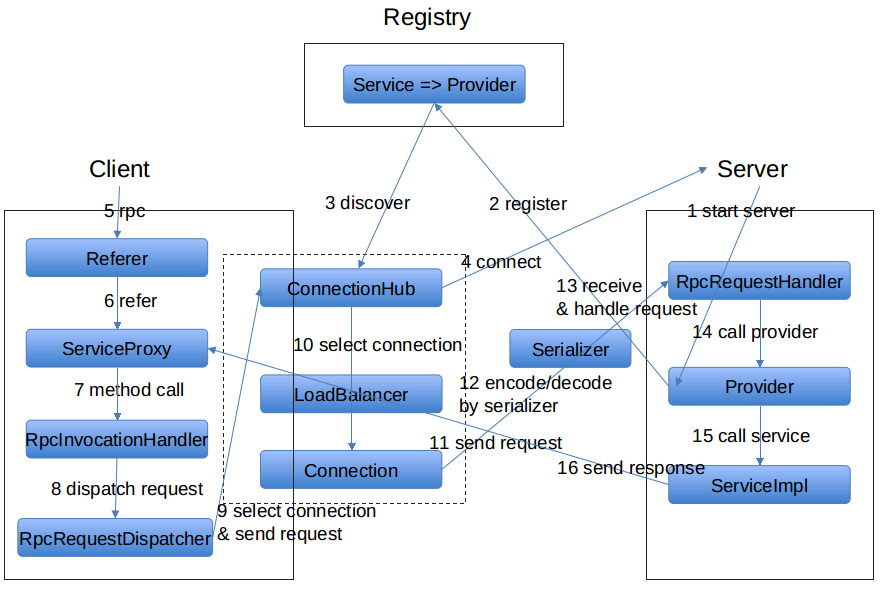
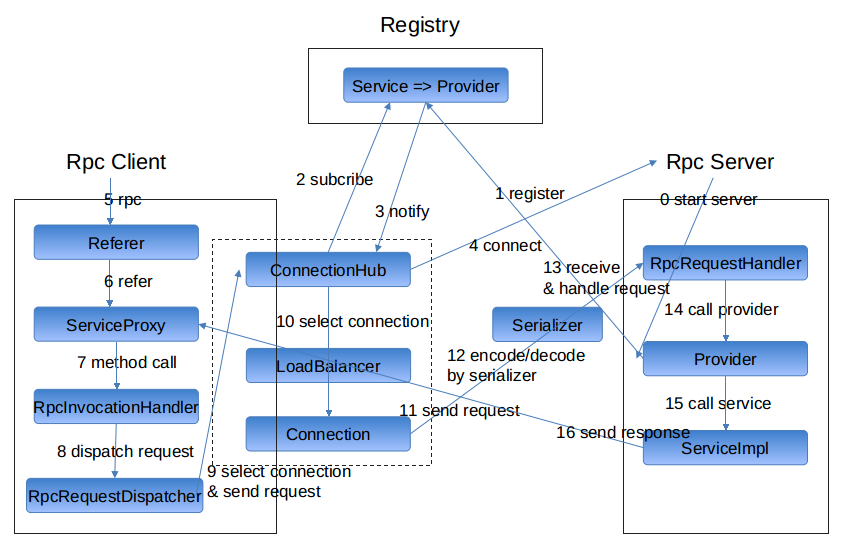
完善rpc/tracer文档

diff --git a/doc/rpc/architecture.md b/doc/rpc/architecture.md
@@ -1,28 +1,44 @@
+# 名词解释
+
+1. Server, Provider节点, 容纳多个Provider
+2. Client, 与Server相对, Referer通过Client来请求Server
+
 # 架构
-![rpc-flow](img/rpc-flow.png)
 
 ## 3模块
-1. `jksoa-rpc-registry` 注册中心
-2. `jksoa-rpc-server` 服务端: `Provider`所在的节点, 管理`Provider`, 处理client的请求, 调用对应的`Provider`来处理请求
+1. `jksoa-rpc-registry` 注册中心, 包括注册服务、订阅服务、服务变更通知、服务心跳发送等功能；Server端会在系统初始化时通过register模块注册服务，Client端在系统初始化时会通过register模块订阅到具体提供服务的Server列表，当Server 列表发生变更时也由register模块通知Client。
+2. `jksoa-rpc-server` 服务端: 服务提供者的节点, 即`Provider`所在的节点, 管理`Provider`, 处理client的请求, 调用对应的`Provider`来处理请求
 3. `jksoa-rpc-client` 客户端: 管理`Referer`, 管理与server的连接, 向server发送请求
-4. 依赖关系: 下面依赖上面
+
+![module](img/module.png)
+
+## 模块依赖关系
+下面依赖上面
 ```
 jksoa-rpc-registry
     jksoa-rpc-client
         jksoa-rpc-server
 ```
 
+# 组件
+
+![rpc-flow](img/rpc-flow.png)
+
+## registry组件
+存储服务注册信息, 就是有哪些服务, 服务有哪些提供者节点
+服务提供者将服务信息（包含协议、ip、端口等信息）注册到注册中心，服务引用方通过注册中心发现服务。当服务发生变更，注册中心负责通知各个引用者。
+
 ## server端组件
 1. `RpcRequestHandler` 请求处理器
-2. `Provider` 暴露服务的服务提供者
-3. `ServiceImpl` 服务实现
+2. `Provider` 暴露服务的服务提供者, 将服务注册到注册中心, 调用的是服务实现.
+3. `ServiceImpl` 服务实现, 要被`Provider`调用. 由于被`Provider`注册到注册中心, 因此可被调用方调用.
 
 ## client端组件
-1. `Referer` 调用远程服务的服务引用者
+1. `Referer` 调用远程服务的服务引用者, 即服务调用者, 调用的是服务代理
 2. `ServiceProxy` 服务代理, 简化调用, 调本地服务一样调远程服务, 使用`RpcInvocationHandler`来实现
 3. `RpcInvocationHandler` 将方法调用封装为请求, 并通过 `RpcRequestDispatcher` 来分发请求
 4. `RpcRequestDispatcher` 分发请求
-5. `ConnectionHub` 连接集中器, 用于管理与server的连接
+5. `ConnectionHub` 连接集中器, 通过订阅注册中心来发现服务, 同时用于管理单个服务的一组server的连接, 发送请求时会根据不同的负载均衡策略选择一个可用的Server发送。
 6. `LoadBalancer` 均衡负载器, 用于均衡发送请求给某服务的多个server(即服务提供者节点)
 7. `Connection` 单个连接, 用于发送请求
 

diff --git a/doc/tracer/architecture.md b/doc/tracer/architecture.md
@@ -1,0 +1,72 @@
+# 跟踪模型
+
+## 跟踪组件
+一次典型的分布式调用过程，如下图所示:
+
+![trace-component](img/trace-component.jpg)
+
+跟踪模型有以下组件：
+1. Trace
+一次完整的分布式调用跟踪链路。
+
+2. Span
+追踪服务调基本结构，表示跨服务的一次调用；多span形成树形结构，组合成一次Trace追踪记录。
+
+3. Annotation
+在span中的标注点，记录整个span时间段内发生的事件。
+
+而Annotation类型有:
+> - `Cs` CLIENT_SEND，客户端发起请求
+> - `Cr` CLIENT_RECIEVE，客户端收到响应
+> - `Sr` SERVER_RECIEVE，服务端收到请求
+> - `Ss` SERVER_SEND，服务端发送结果
+> - `Ex` Exception 记录异常事件
+
+4. Client && Server
+
+## 跟踪流程
+![trace-flow](img/trace-flow.png)
+
+# 架构
+
+## 模块
+![module](img/module.png)
+
+1. `jksoa-tracer-common` 公共代码, 如跟踪模型的定义
+
+2. `jksoa-tracer-agent` 跟踪代理人, 负责采集调用数据
+
+2.1 基于rpc: 
+构建于jksoa-rpc之上，支持应用的透明接入。
+
+2.2 拦截器实现: 
+对rpc client/rpc server/http server等3端, 使用拦截器来埋点跟踪.
+
+2.3 采集处理: 
+与CAT/hydra类似。支持自适应采样，规则简单，对于每秒钟的请求次数进行统计，如果超过100，就按照10%的比率进行采样。
+
+2.4 上传处理:
+rcp调用`ICollectorService`远程服务，批量异步上传数据
+
+3. `jksoa-tracer-collector` 跟踪收集人, 负责收集agent上传过来来的调用数据, 并组成跟踪数据入库
+提供 `ICollectorService` rpc服务, 以供agent调用
+
+4. `jksoa-tracer-web` 用户交互界面, 读跟踪数据并显示报表. UI直接复用京东的Hydra框架
+
+## 接入方式
+
+1. 透明接入
+对rpc client/rpc server/http server等3端, 使用拦截器来埋点跟踪, 已做成插件.
+
+配置好插件即可实现透明接入，自动拦截跨服务的调用，进行数据采样。
+
+2. 注解
+对于其他分散的服务，或者业务逻辑中其他小粒度的埋点，如服务内部的方法调用、数据库操作、URL请求等，提供注解 `@TraceService` 的方式。
+
+
+## 数据存储模块
+- 目前支持存在mysql
+- 通过traceId可以直接将span数据关联起来
+- 通过traceId和spanId可以定位所有的Annotation数据
+
+

diff --git a/doc/rpc/registry/registry.md b/doc/rpc/registry/registry.md
@@ -1,11 +1,12 @@
 # 注册中心
 使用注册中心来实现服务注册 + 服务发现.
+服务提供者将服务信息（包含ip、端口、服务策略等信息）注册到注册中心，服务引用者通过注册中心发现服务。当服务发生变更，注册中心负责通知各个引用者。
 
 就2个功能:
 
 1. 服务注册, 是服务提供者在server启动时, 向注册中心注册其服务, 以供别人调用
 
-2. 服务发现, 是服务引用者通过向注册中心订阅服务信息, 来发现有哪些服务提供方, 以便后续调用该服务.
+2. 服务发现, 是服务引用者通过向注册中心订阅服务信息, 来发现有哪些服务提供者节点, 以便后续调用该服务.
 
 # 类族
 
@@ -27,7 +28,7 @@ IDiscovery -- 服务发现
 ## 注册服务信息
 Provider需要向注册中心注册其提供的服务信息, 服务信息包含: 
 1. 服务的接口名
-2. server信息: ip + 端口
+2. server信息: 协议 + ip + 端口
 3. 其他配置: 如权重
 
 ## 服务信息的存储

diff --git a/doc/tracer/getting_started.md b/doc/tracer/getting_started.md
@@ -17,7 +17,7 @@ jksoa 是一个分布式跟踪系统
 
 Trace系统需要能够透明的传递调用上下文，理解系统行为，理清后端调用关系，实现调用链跟踪，调用路径分析，帮助业务人员定位性能瓶颈，排查故障原因等；同时，需要对用户尽量透明，减少对业务代码的侵入性。
 
-设计思想源于Google的论文《Dapper, a Large-Scale Distributed Systems Tracing Infrastructure》。
+设计思想源于[Google Dapper论文](http://bigbully.github.io/Dapper-translation/)实现。。
 
 # 快速入门
 
@@ -50,4 +50,16 @@ httpServerPlugins:
 
 ## collector端
 
-负责提供 ICollectorService 服务, 以供agent调用
+需要启动rpc server, 提供 `ICollectorService` rpc服务, 以供agent调用
+
+## web端
+
+在`jksoa-tracer-web`模块上启动http server, 以显示跟踪相关报表. UI直接复用京东的Hydra框架
+
+1. 查询跟踪页面
+
+![query](img/query.png)
+
+2. 跟踪详情页面
+
+![result](img/result.png)

diff --git a/doc/rpc/client/failover.md b/doc/rpc/client/failover.md
@@ -41,7 +41,20 @@ try {
 }
 ```
 
-2. 正确的写法: 利用 `trySupplierFuture(action)` 将发送请求操作转为 `CompletableFuture` 对象, 利用 `CompletableFuture.whenComplete()` 来做失败回调处理.
+2. 错误的写法: `sendRequestAsync(req)` 可能会抛异常
+
+```
+异步发请求
+var respFuture: CompletableFuture<RpcResponse> = sendRequestAsync(req)
+
+respFuture.whenComplete{ r, ex ->
+    // 失败后, 重新异步发送请求
+    if(ex != null)
+        sendRequestAsync(req)
+}
+```
+
+3. 正确的写法: 利用 `trySupplierFuture(action)` 将发送请求操作转为 `CompletableFuture` 对象, 同时还会捕获异常, 最后利用 `CompletableFuture.whenComplete()` 来做失败回调处理.
 
 ```
 import net.jkcode.jkmvc.common.trySupplierFuture

diff --git a/doc/rpc/client/connnection_manage.md b/doc/rpc/client/connnection_manage.md
@@ -16,7 +16,7 @@
 
 我设计了`IConnectionHub`来集中管理连接.
 
-同时为了更容易的理解与维护, `IConnectionHub`只管理单个服务的连接, 也就是说一个服务类都对应唯一的`IConnectionHub`实例. 这样的话在查询某个服务的连接时, 只需要调用该服务对应`IConnectionHub`实例就行了.
+同时为了更容易的理解与维护, `IConnectionHub`只管理单个服务的一组server的连接, 也就是说一个服务类都对应唯一的`IConnectionHub`实例. 这样的话在查询某个服务的连接时, 只需要调用该服务对应`IConnectionHub`实例就行了.
 
 服务类可以指定`IConnectionHub`的实现类, 参考注解 `@RemoteService` 的属性 `val connectionHubClass: KClass<*>`
 

diff --git a/doc/rpc/rpc-flow.md b/doc/rpc/rpc-flow.md
@@ -4,11 +4,13 @@
 
 ## server启动流程
 
-1. 启动server
+0. 启动server
 
-2. 加载并创建服务提供者`Provider`, 创建服务实现的实例, 并向注册中心注册. 详见 `Provider.createAndRegisterService()`
+1. 加载并创建服务提供者`Provider`, 创建服务实现的实例, 并向注册中心注册. 详见 `Provider.createAndRegisterService()`, 即服务注册
 
-3. client端的`ConnectionHub`订阅了注册中心, 注册中心向他推送最新的服务提供者节点地址
+2. client端的`ConnectionHub`订阅了注册中心, 即服务发现
+
+3. 注册中心向`ConnectionHub`推送最新的服务提供者节点地址
 
 4. `ConnectionHub`收到新的服务提供者节点, 则向节点建立连接
 

diff --git a/doc/rpc/service/instance.md b/doc/rpc/service/instance.md
@@ -4,9 +4,11 @@
 
 ## Provider的服务实例
 `Provider`的服务实例, 是服务实现类的实例, 逻辑上是真正的实例.
+是服务提供者提供的服务。使用方将核心业务抽取出来,作为独立的服务。通过暴露服务并将服务注册至注册中心,从而使调用方调用。
 
 ## Referer的服务实例
 `Referer`的服务实例, 是服务接口类的代理对象, 逻辑上只是远端服务实例的引用.
+是服务引用者引用的服务. 实际上是代理调用服务提供者的远端服务. 而服务提供者的发现是通过订阅注册中心实现的.
 
 代理对象的创建是通过以下代码:
 `val service: Any = RpcInvocationHandler.createProxy(interface)`

diff --git a/doc/rpc/registry/token-authorization.md b/doc/rpc/registry/token-authorization.md
@@ -1,4 +1,4 @@
-# 令牌验证 -- 未实现
+# 令牌验证 -- 作用不大, 暂未实现
 通过令牌验证在注册中心控制权限，以决定要不要下发令牌给引用者，可以防止引用者绕过注册中心访问提供者.
 
 另外通过注册中心可灵活改变授权方式，而不需修改或升级提供者
